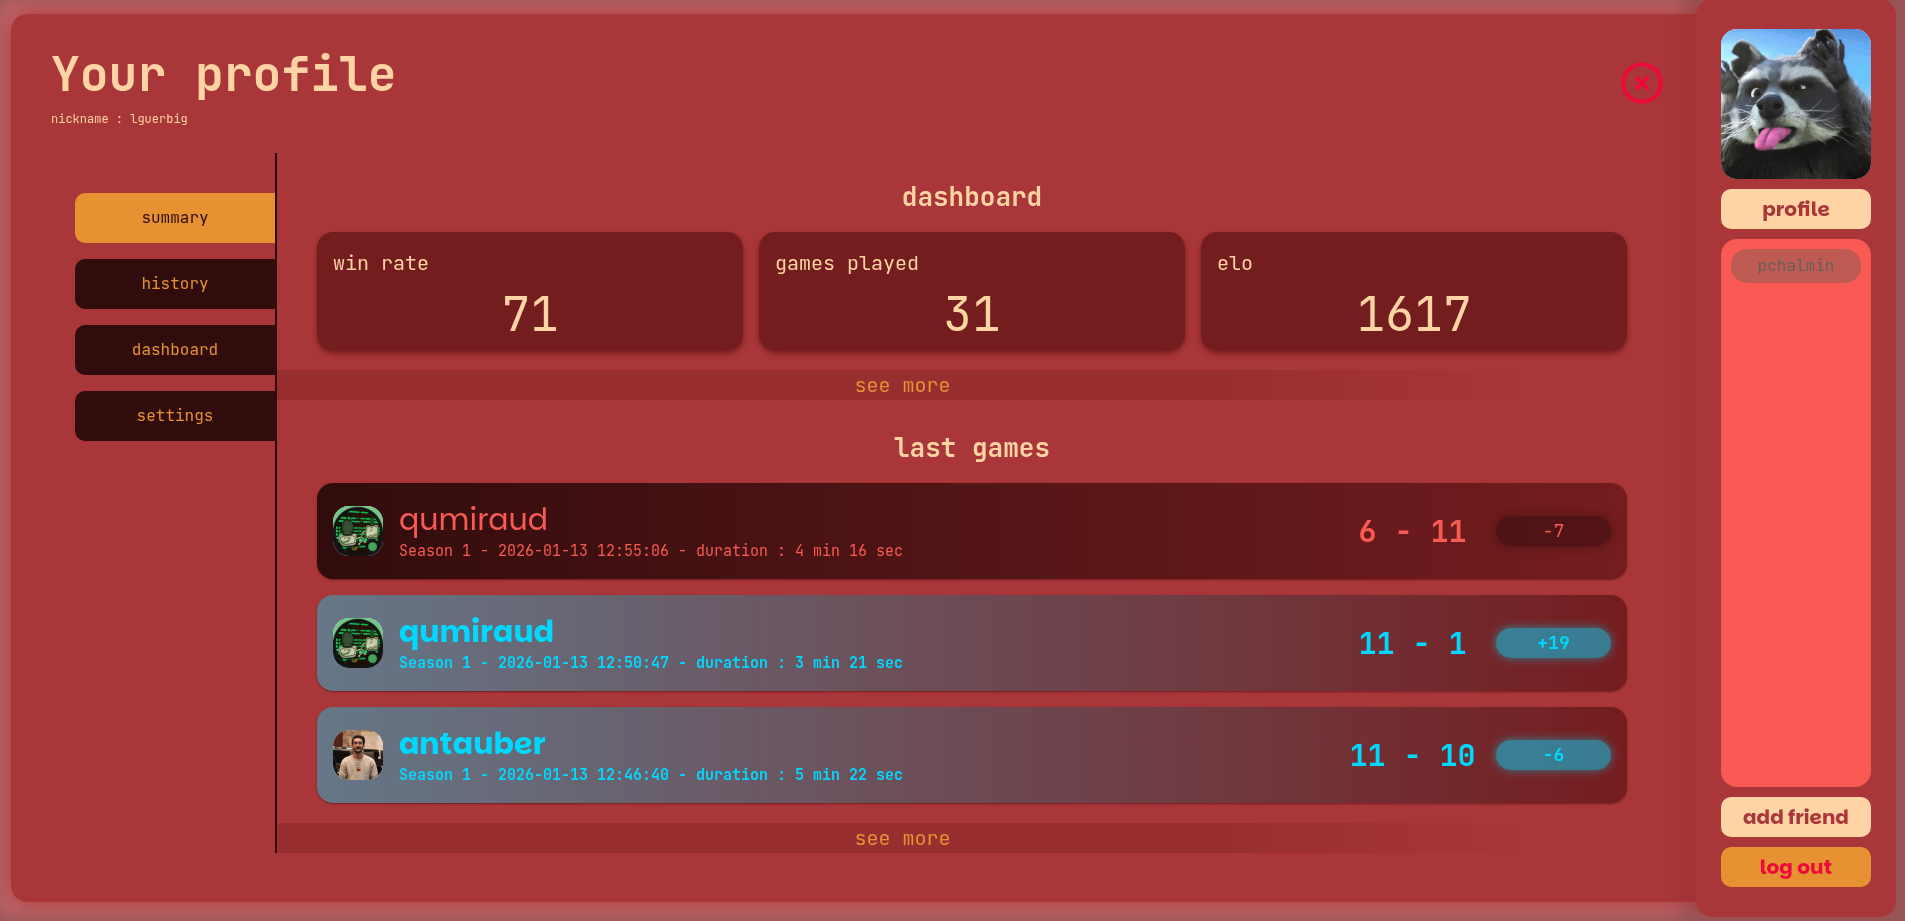
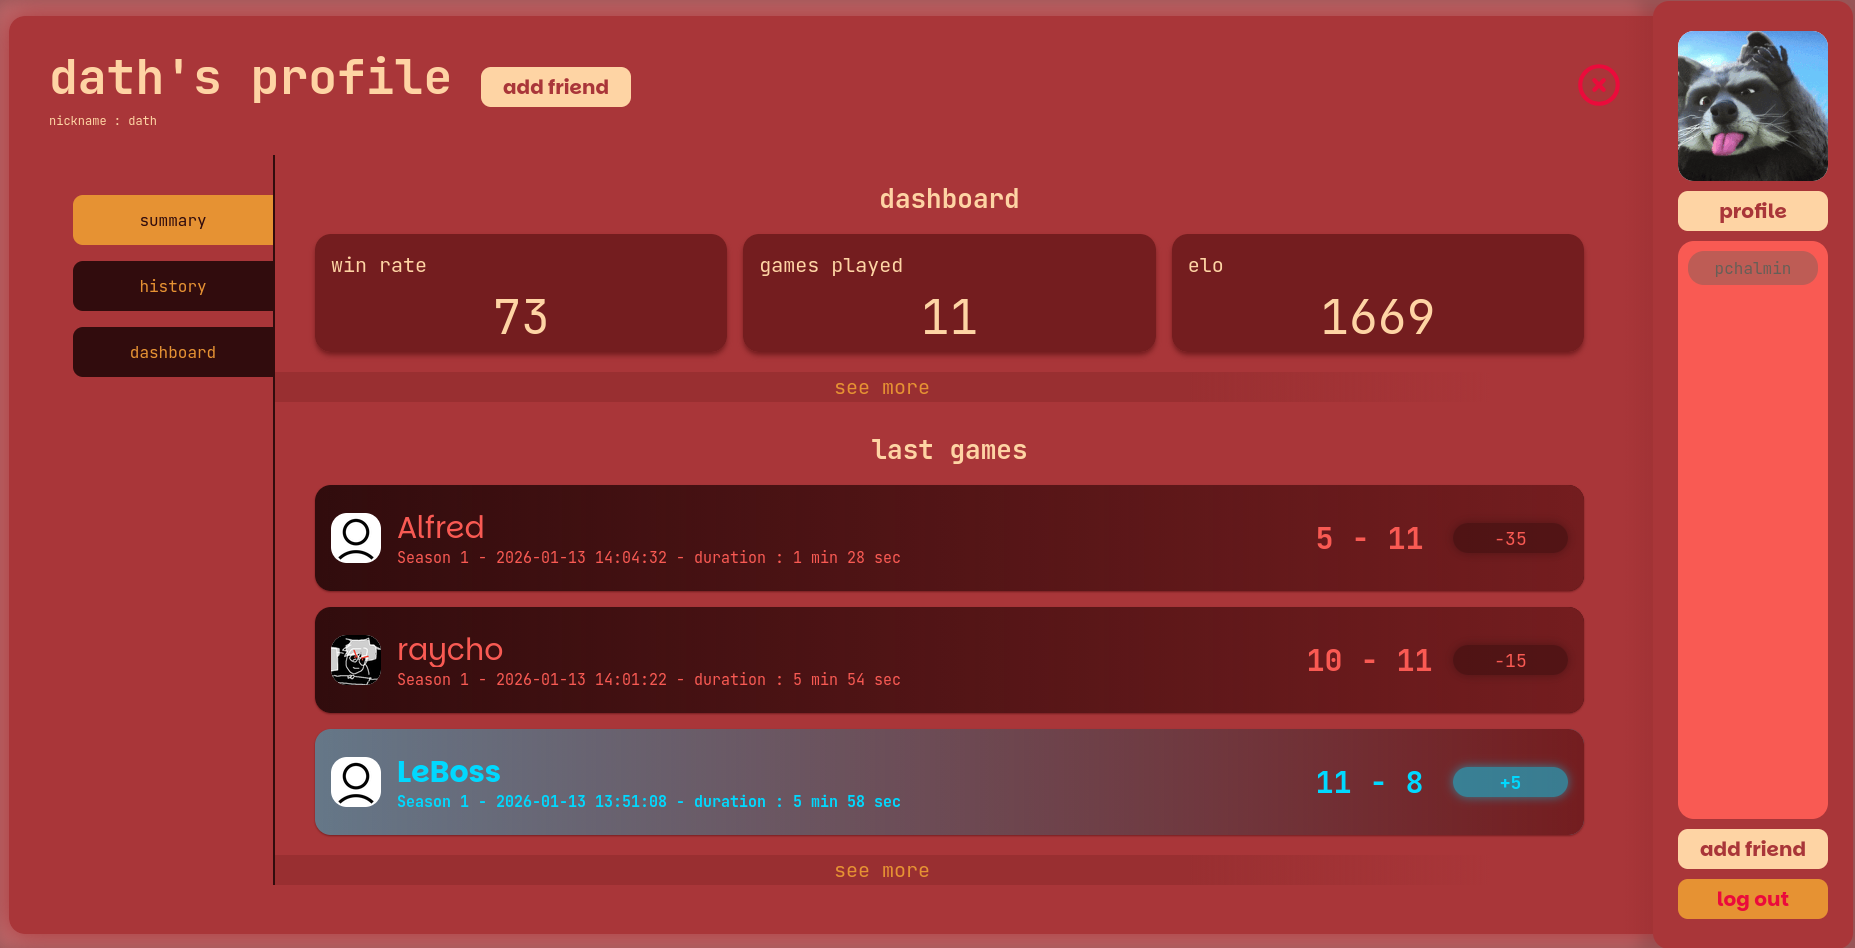
ADD(Readme): more images and Gifs

diff --git a/README.md b/README.md
@@ -27,12 +27,7 @@ A full-stack, real-time Pong platform built in a team of five as the final proje
 The goal of the project was to build a complete web application from scratch while learning unfamiliar technologies: a single-page application in TypeScript, a Fastify API, a server-authoritative 3D game, and a smart contract that stores ranked results on a blockchain.
 
 <p align="center">
-  <img src="assets/profile.png" alt="profile" width="500">
-  <img src="assets/lightning-map.png" alt="map 1" width="500">
-</p>
-<p align="center">
-  <img src="assets/desert-map.png" alt="map 2" width="500">
-  <img src="assets/meteor-map.png" alt="map 3" width="500">
+  <img src="assets/general.gif" alt="general" width="800">
 </p>
 
 The result is a SPA (Single Page Application) where users can:
@@ -40,6 +35,11 @@ The result is a SPA (Single Page Application) where users can:
 - play Pong locally (same keyboard), against an AI, or against a remote player through skill-based matchmaking;
 - compete in seasonal ranked matches with Glicko ratings, placement games, a leaderboard, stats dashboards and match history;
 - customize maps, balls, rules, keybinds and visual themes.
+
+<p align="center">
+  <img src="assets/profile.png" alt="profile" width="500">
+  <img src="assets/lightning-map.png" alt="map 1" width="500">
+</p>
 
 Every game runs **on the server**: Babylon.js with the Havok physics engine simulates the match in a `NullEngine`, and the browser receives position/state updates over WebSockets and renders the scene. This keeps the game authoritative and consistent for both remote players.
 
@@ -65,7 +65,7 @@ RPC_URL=<Avalanche Fuji RPC URL>
 ### Build and run (production)
 
 ```bash
-make        # alias for: make prod
+make
 # or
 make prod
 ```
@@ -106,8 +106,27 @@ Uses `docker-compose.dev.yml`: source directories are bind-mounted and TypeScrip
 - **Three game modes**: local 1v1, versus an AI opponent, and ranked remote 1v1 with matchmaking.
 - **Server-side simulation**: collisions, hazards and scoring are computed by the backend; clients render the state they receive.
 - **Customization**: 4 maps, 5 ball behaviors, optional rules (dash, spin, wind, rotating player), cannons, configurable key bindings, themes, emotes and particle effects.
+<table align="center">
+  <tr>
+    <td><img src="assets/options.png" alt="options" width="300"></td>
+    <td>
+      <img src="assets/dash.gif" alt="dash" width="300"><br>
+      <img src="assets/spin.gif" alt="spin" width="300">
+    </td>
+  </tr>
+</table>
+
 - **AI opponent**: a `Brain` observes the ball at a 1-second interval (as required by the subject), predicts the trajectory and emits keyboard-style controls every 80 ms.
+<p align="center">
+  <img src="assets/AI1.gif" alt="ai1" width="500">
+  <img src="assets/AI2.gif" alt="ai2" width="500">
+</p>
+
 - **Ranked seasons**: Glicko-1 rating (rating + deviation), placement games, rating updates persisted on-chain, leaderboard and seasonal stats.
+<p align="center">
+  <img src="assets/leaderbord.png" alt="leaderbord" width="500">
+</p>
+
 - **Game flow protocol**: typed, status-tagged messages shared by client and server. See the [Game Data Flow Overview](https://github.com/titouan-lef/42_transcendence/wiki/Game-Data-Flow-Overview).
 
 ### Accounts, security and UX
